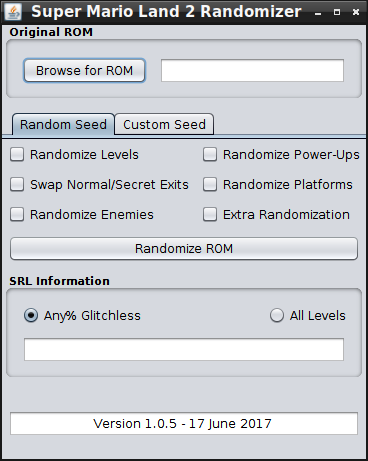
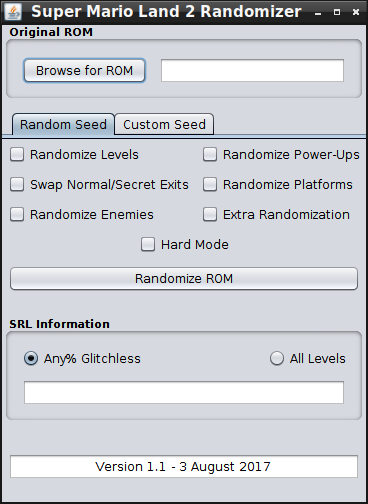
update readme

diff --git a/readme.md b/readme.md
@@ -1,7 +1,7 @@
 <div style="text-align:center">
 <p><img src="https://github.com/slashinfty/sml2randomizer/raw/master/screenshot.png" alt="Screenshot of Super Mario Land 2 Randomizer" /></p>
 
-<p><a href="https://github.com/slashinfty/sml2randomizer/raw/master/dist/sml2randomizer.jar">Download</a> version 1.0.5 of the randomizer.</p>
+<p><a href="https://github.com/slashinfty/sml2randomizer/raw/master/dist/sml2randomizer.jar">Download</a> version 1.1 of the randomizer.</p>
 </div>
 
 ## What Do You Need
